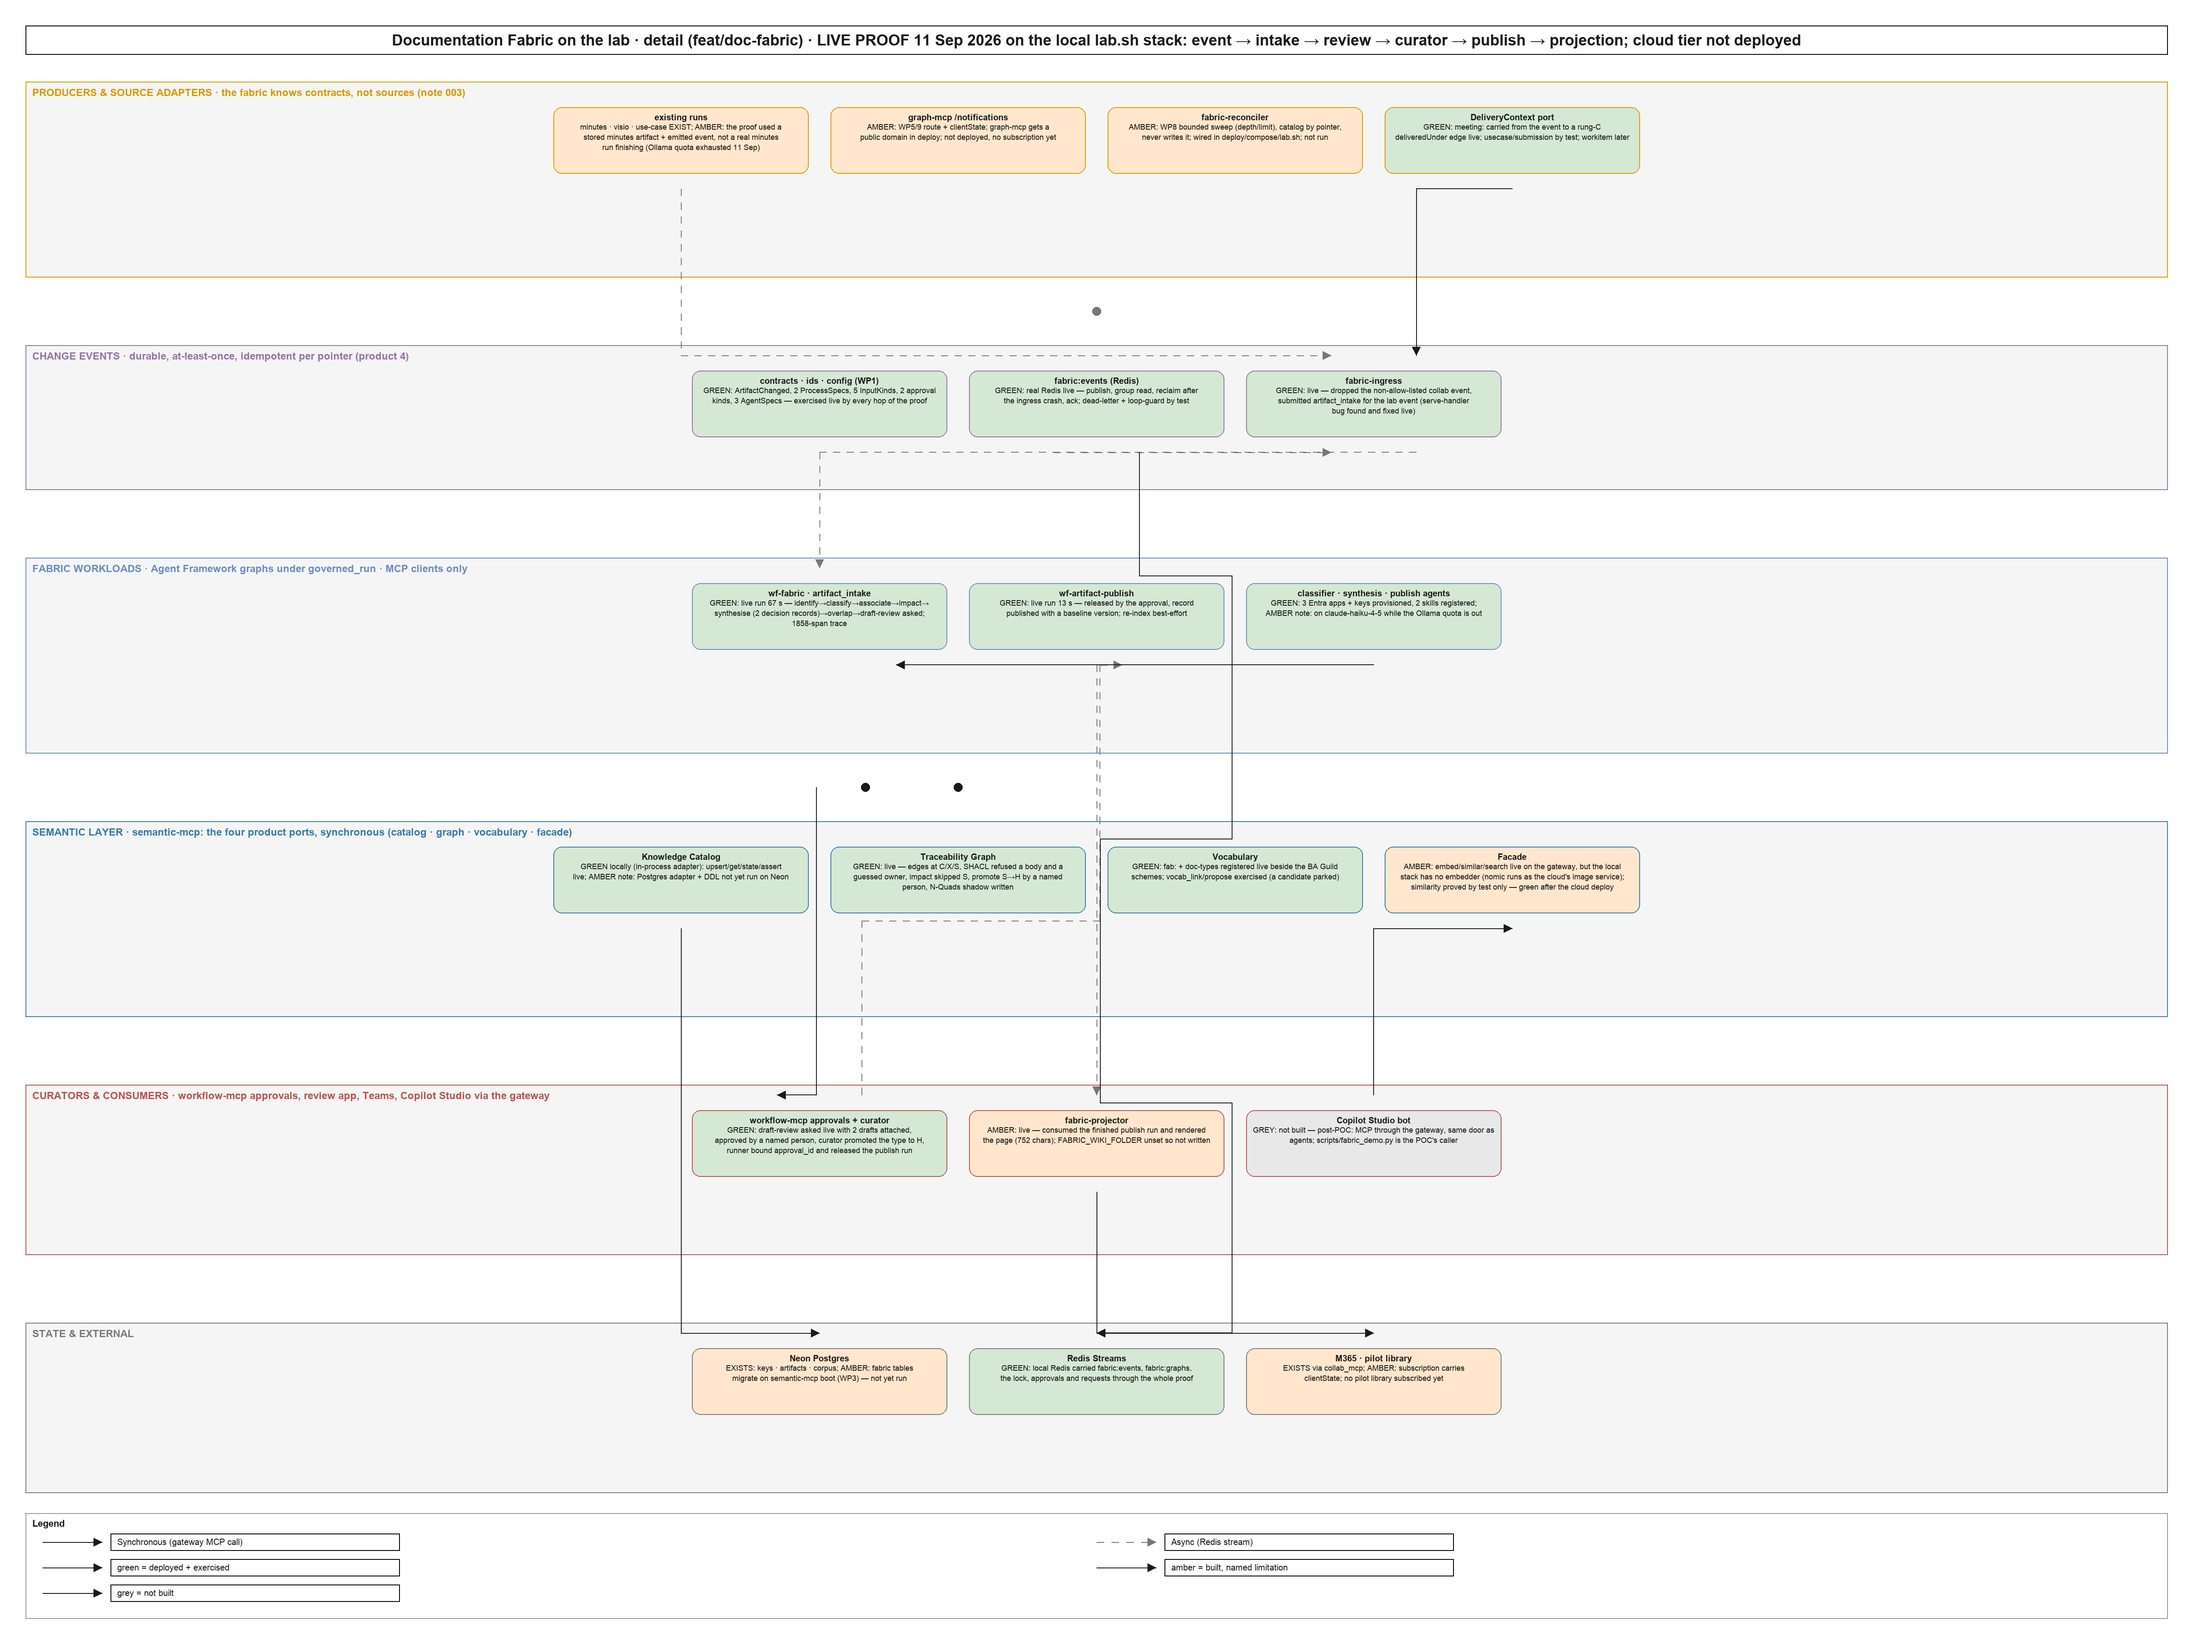
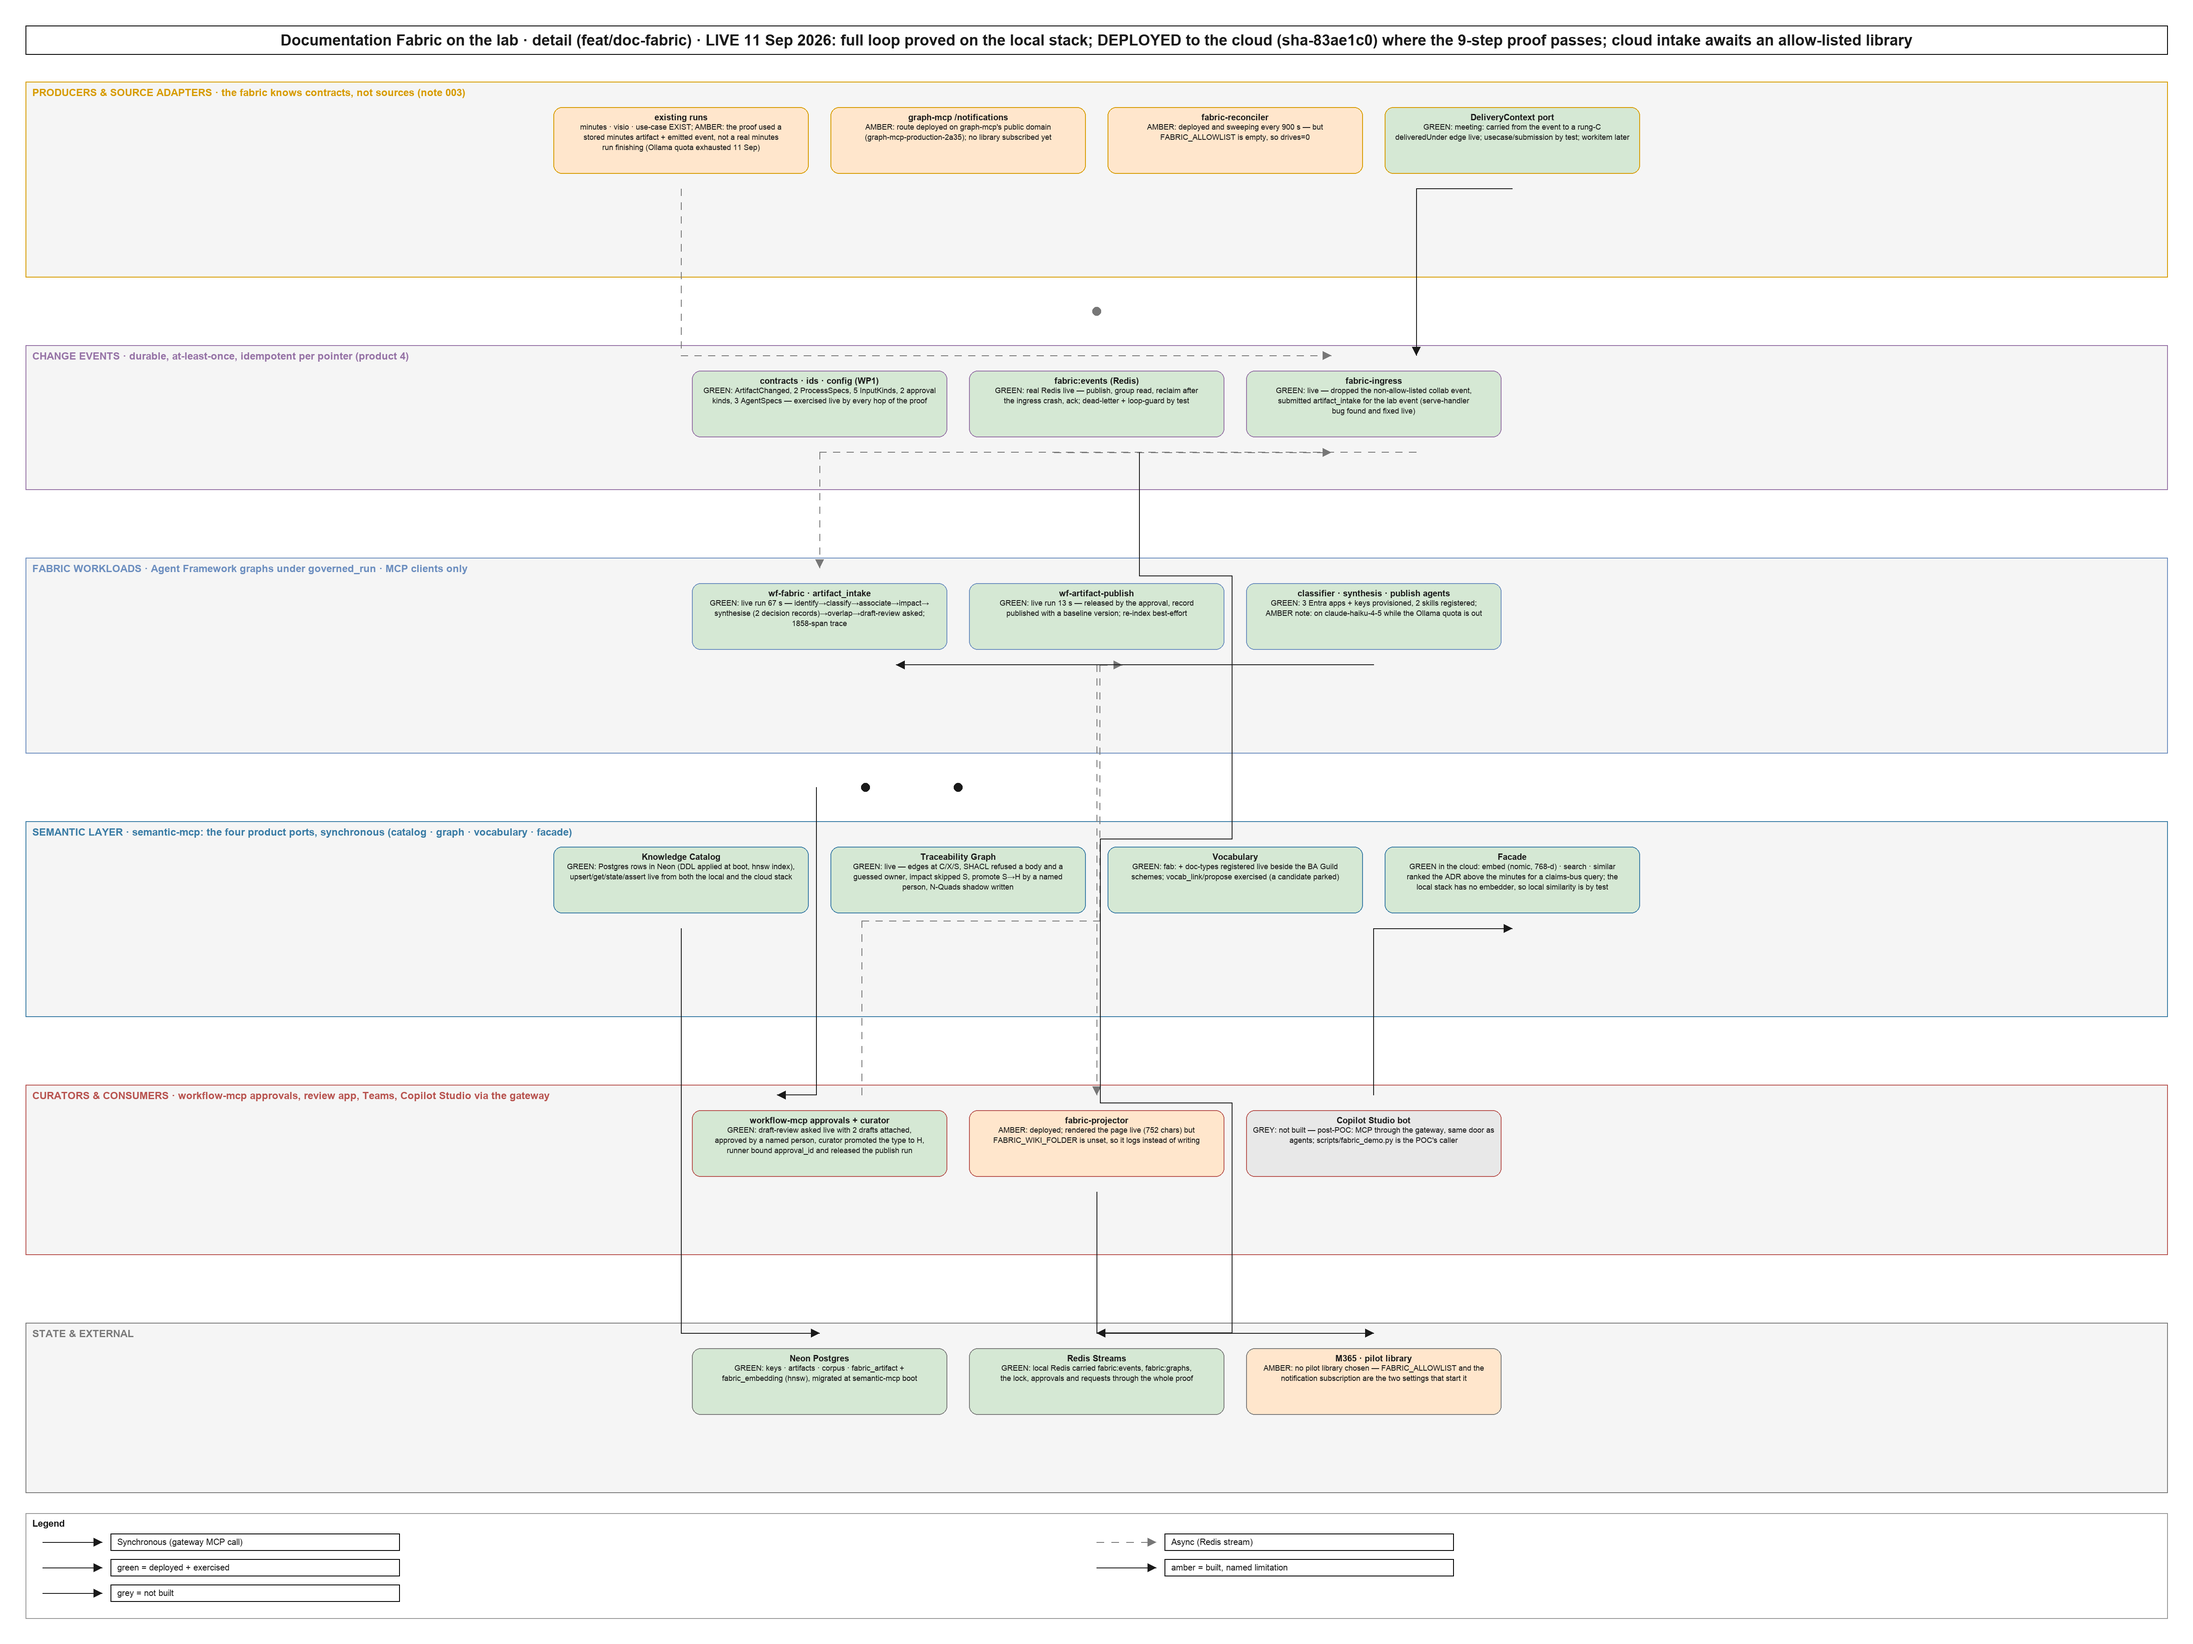
docs(fabric): the cloud proof recorded — drawings, heatmap line and POC §8 as of sha-83ae1c0
Nine-step proof passes against the public gateway; the facade's embed/search/similar work there (nomic
via the gateway); every fabric service runs the pinned image. Still amber: no pilot library allow-listed
or subscribed, projector folder unset.

Claude-Session: https://claude.ai/code/session_01EtGcqgehQqtKSUnysVd3WA

diff --git a/scripts/fabric_diagram.py b/scripts/fabric_diagram.py
@@ -20,7 +20,7 @@ from drawio_c4 import C4Diagram  # noqa: E402
 DONE, PART, TODO = "#D5E8D4", "#FFE6CC", "#E8E8E8"
 OUT = HERE.parent / "var" / "out" / "architecture"
 
-WAVE = "LIVE PROOF 11 Sep 2026 on the local lab.sh stack: event → intake → review → curator → publish → projection; cloud tier not deployed"
+WAVE = "LIVE 11 Sep 2026: full loop proved on the local stack; DEPLOYED to the cloud (sha-83ae1c0) where the 9-step proof passes; cloud intake awaits an allow-listed library"
 
 
 def build() -> C4Diagram:
@@ -36,8 +36,8 @@ def build() -> C4Diagram:
     d.component("contracts", "z_events", "contracts · ids · config (WP1)", "GREEN: ArtifactChanged, 2 ProcessSpecs, 5 InputKinds, 2 approval\nkinds, 3 AgentSpecs — exercised live by every hop of the proof", fill=DONE)
     # producers & adapters
     d.component("runs", "z_prod", "existing runs", "minutes · visio · use-case EXIST; AMBER: the proof used a\nstored minutes artifact + emitted event, not a real minutes\nrun finishing (Ollama quota exhausted 11 Sep)", fill=PART)
-    d.component("notif", "z_prod", "graph-mcp /notifications", "AMBER: WP5/9 route + clientState; graph-mcp gets a\npublic domain in deploy; not deployed, no subscription yet", fill=PART)
-    d.component("recon", "z_prod", "fabric-reconciler", "AMBER: WP8 bounded sweep (depth/limit), catalog by pointer,\nnever writes it; wired in deploy/compose/lab.sh; not run", fill=PART)
+    d.component("notif", "z_prod", "graph-mcp /notifications", "AMBER: route deployed on graph-mcp's public domain\n(graph-mcp-production-2a35); no library subscribed yet", fill=PART)
+    d.component("recon", "z_prod", "fabric-reconciler", "AMBER: deployed and sweeping every 900 s — but\nFABRIC_ALLOWLIST is empty, so drives=0", fill=PART)
     d.component("delivery", "z_prod", "DeliveryContext port", "GREEN: meeting:<id> carried from the event to a rung-C\ndeliveredUnder edge live; usecase/submission by test; workitem later", fill=DONE)
     # events
     d.component("stream", "z_events", "fabric:events (Redis)", "GREEN: real Redis live — publish, group read, reclaim after\nthe ingress crash, ack; dead-letter + loop-guard by test", fill=DONE)
@@ -47,18 +47,18 @@ def build() -> C4Diagram:
     d.component("publish", "z_work", "wf-artifact-publish", "GREEN: live run 13 s — released by the approval, record\npublished with a baseline version; re-index best-effort", fill=DONE)
     d.component("agents", "z_work", "classifier · synthesis · publish agents", "GREEN: 3 Entra apps + keys provisioned, 2 skills registered;\nAMBER note: on claude-haiku-4-5 while the Ollama quota is out", fill=DONE)
     # semantic layer
-    d.component("catalog", "z_sem", "Knowledge Catalog", "GREEN locally (in-process adapter): upsert/get/state/assert\nlive; AMBER note: Postgres adapter + DDL not yet run on Neon", fill=DONE)
+    d.component("catalog", "z_sem", "Knowledge Catalog", "GREEN: Postgres rows in Neon (DDL applied at boot, hnsw index),\nupsert/get/state/assert live from both the local and the cloud stack", fill=DONE)
     d.component("graph", "z_sem", "Traceability Graph", "GREEN: live — edges at C/X/S, SHACL refused a body and a\nguessed owner, impact skipped S, promote S→H by a named\nperson, N-Quads shadow written", fill=DONE)
     d.component("vocab", "z_sem", "Vocabulary", "GREEN: fab: + doc-types registered live beside the BA Guild\nschemes; vocab_link/propose exercised (a candidate parked)", fill=DONE)
-    d.component("facade", "z_sem", "Facade", "AMBER: embed/similar/search live on the gateway, but the local\nstack has no embedder (nomic runs as the cloud's image service);\nsimilarity proved by test only — green after the cloud deploy", fill=PART)
+    d.component("facade", "z_sem", "Facade", "GREEN in the cloud: embed (nomic, 768-d) · search · similar\nranked the ADR above the minutes for a claims-bus query; the\nlocal stack has no embedder, so local similarity is by test", fill=DONE)
     # gate & consumers
     d.component("approvals", "z_gate", "workflow-mcp approvals + curator", "GREEN: draft-review asked live with 2 drafts attached,\napproved by a named person, curator promoted the type to H,\nrunner bound approval_id and released the publish run", fill=DONE)
-    d.component("projector", "z_gate", "fabric-projector", "AMBER: live — consumed the finished publish run and rendered\nthe page (752 chars); FABRIC_WIKI_FOLDER unset so not written", fill=PART)
+    d.component("projector", "z_gate", "fabric-projector", "AMBER: deployed; rendered the page live (752 chars) but\nFABRIC_WIKI_FOLDER is unset, so it logs instead of writing", fill=PART)
     d.component("bot", "z_gate", "Copilot Studio bot", g("post-POC: MCP through the gateway, same door as\nagents; scripts/fabric_demo.py is the POC's caller"), fill=TODO)
     # state
-    d.component("neon", "z_state", "Neon Postgres", "EXISTS: keys · artifacts · corpus; AMBER: fabric tables\nmigrate on semantic-mcp boot (WP3) — not yet run", fill=PART)
+    d.component("neon", "z_state", "Neon Postgres", "GREEN: keys · artifacts · corpus · fabric_artifact +\nfabric_embedding (hnsw), migrated at semantic-mcp boot", fill=DONE)
     d.component("redis", "z_state", "Redis Streams", "GREEN: local Redis carried fabric:events, fabric:graphs,\nthe lock, approvals and requests through the whole proof", fill=DONE)
-    d.component("m365", "z_state", "M365 · pilot library", "EXISTS via collab_mcp; AMBER: subscription carries\nclientState; no pilot library subscribed yet", fill=PART)
+    d.component("m365", "z_state", "M365 · pilot library", "AMBER: no pilot library chosen — FABRIC_ALLOWLIST and the\nnotification subscription are the two settings that start it", fill=PART)
 
     for s, t, k in (("runs", "ingress", "async"), ("notif", "stream", "async"), ("recon", "stream", "async"), ("stream", "ingress", "async"),
                     ("ingress", "intake", "async"), ("intake", "catalog", "sync"), ("intake", "graph", "sync"), ("intake", "vocab", "sync"),

diff --git a/scripts/worktree_heatmap.py b/scripts/worktree_heatmap.py
@@ -158,7 +158,7 @@ def build() -> C4Diagram:
     d.component("c_arch", "z_core", "archimate",
                 "engine · notation · relrepair · xsd", fill=DONE)
     d.component("fabric", "z_sub", "Documentation Fabric",
-                "GREEN on the LOCAL stack 11 Sep: event → ingress → intake (2 drafts) →\ndraft-review → curator S→H → publish → projection, one trace per run;\nAMBER note: cloud tier not deployed, projector folder unset, no local\nembedder (similarity by test only); detail in docs/architecture/fabric.png", row=1, fill=DONE)
+                "GREEN 11 Sep: full loop proved on the local stack (event → intake → review →\ncurator → publish → projection); deployed to the cloud (sha-83ae1c0), 9-step\nproof passes there; AMBER note: no library allow-listed, wiki folder unset;\ndetail in docs/architecture/fabric.png", row=1, fill=DONE)
     d.component("c_sem", "z_core", "semantic",
                 "vocabularies · SKOS · SPARQL", fill=DONE)
     d.component("c_sp", "z_core", "speech",

diff --git a/docs/fabric/POC.md b/docs/fabric/POC.md
@@ -455,7 +455,7 @@ The integrated proof adds what only the tenant can supply: a real minutes run wh
 
 ## 8. Assumptions, limitations and out of scope
 
-- **Proved on the local stack, not yet on the cloud tier (11 Sep 2026).** With the three identities provisioned and the two skills registered, `lab.sh up` from the branch ran the whole loop: `fabric_demo.py` (nine checks, all passing), then a stored minutes artifact's event → `fabric-ingress` → `artifact_intake` (classify, two decision-record drafts synthesised, draft-review asked; 1,858-span trace) → approval by a named person → curator promoted the type to H → `artifact_publish` (published, baseline version) → projector rendered the page. The catalog rows and the hnsw-indexed embedding table landed in Neon through the local semantic-mcp. Two defects were found live and fixed with tests: the ingress serve handler's arity, and the PII guardrail forwarding its restore map to Anthropic on the Responses route. Ollama Cloud's weekly quota was exhausted, so the agents ran on `claude-haiku-4-5`. The cloud deploy is `substrate up` (three daemons, the graph-mcp domain), `workload fabric-intake|artifact-publish up`, then `fabric_demo.py` against the public gateway.
+- **Proved on the local stack, not yet on the cloud tier (11 Sep 2026).** With the three identities provisioned and the two skills registered, `lab.sh up` from the branch ran the whole loop: `fabric_demo.py` (nine checks, all passing), then a stored minutes artifact's event → `fabric-ingress` → `artifact_intake` (classify, two decision-record drafts synthesised, draft-review asked; 1,858-span trace) → approval by a named person → curator promoted the type to H → `artifact_publish` (published, baseline version) → projector rendered the page. The catalog rows and the hnsw-indexed embedding table landed in Neon through the local semantic-mcp. Two defects were found live and fixed with tests: the ingress serve handler's arity, and the PII guardrail forwarding its restore map to Anthropic on the Responses route. Ollama Cloud's weekly quota was exhausted, so the agents ran on `claude-haiku-4-5`. The cloud tier followed the same day (`main` at 83ae1c0 through CD, with `LAB_ENV` refreshed): every fabric service runs the pinned image, semantic-mcp migrated the catalog tables in Neon at boot, and `fabric_demo.py` passes its nine checks against the public gateway. Two deploy defects surfaced and were fixed on the way: the contract must import without rdflib (CD's store-registration step has no semantic layer), and semantic-mcp needs `REDIS_URL` for the rung store's index. What the cloud still lacks is a pilot library: `FABRIC_ALLOWLIST` (which the reconciler sweeps and the ingress admits), a change-notification subscription on it, and `FABRIC_WIKI_FOLDER` for the projector — three settings, no code.
 - **One semantic-mcp replica.** The working copy of the graph is per process; `RungStore.save` serialises writers under a lock but does not merge. A managed quad store (or per-assertion appends) replaces the store module behind `on_write`/`snapshot`/`restore` when the graph outgrows the POC.
 - **Provider versions.** The collaboration port reports `modified`, not an eTag; the fabric uses the stamp as the version. A real version is one field at the port when the reconciler needs it.
 - **The curator key is required.** With `FABRIC_CURATOR_KEY` unset, an approved fabric question is recorded as a failure on its approval and releases nothing — a record is never published with facets the fabric did not take.
